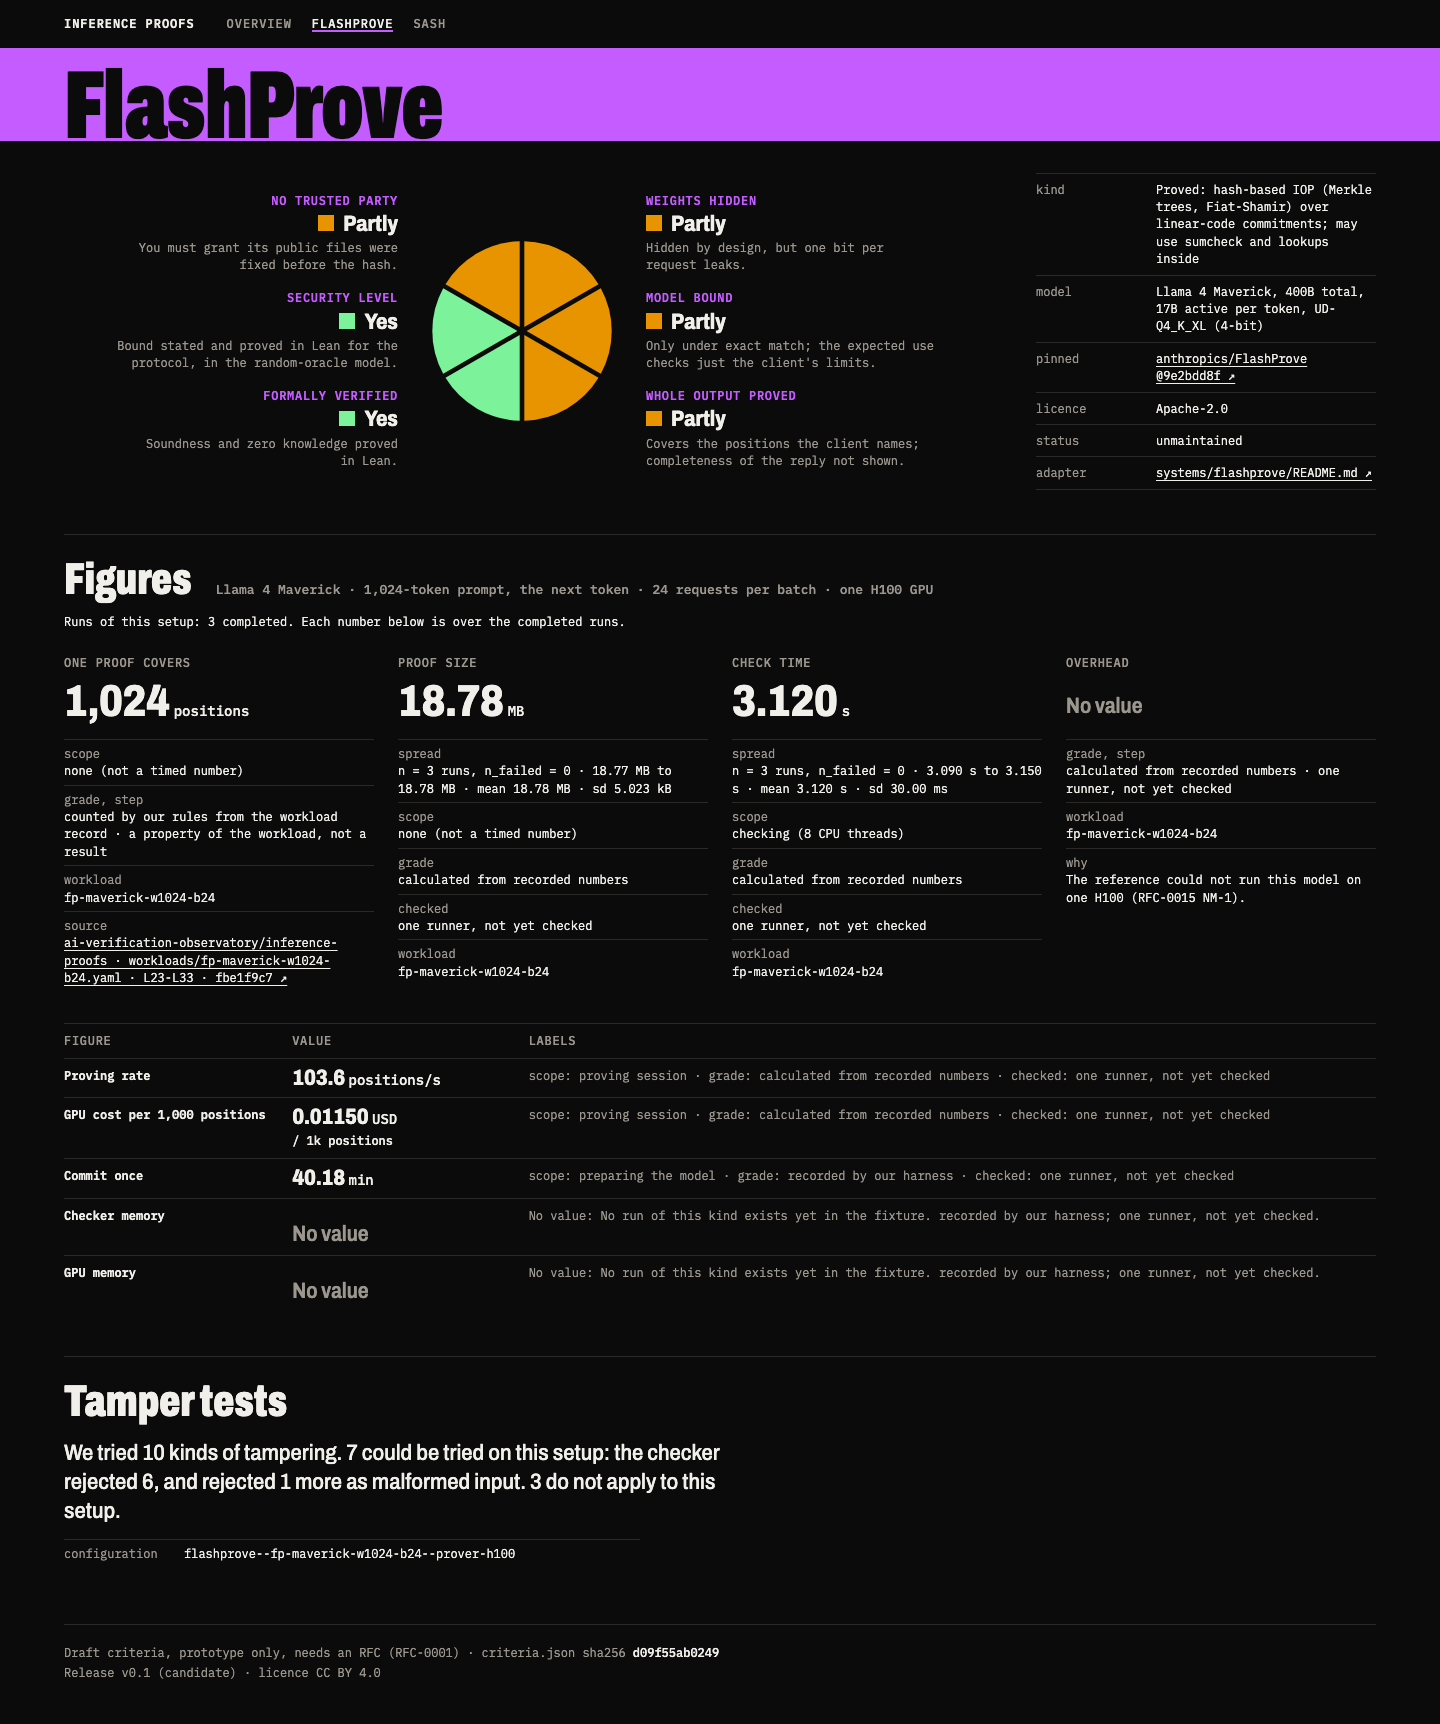
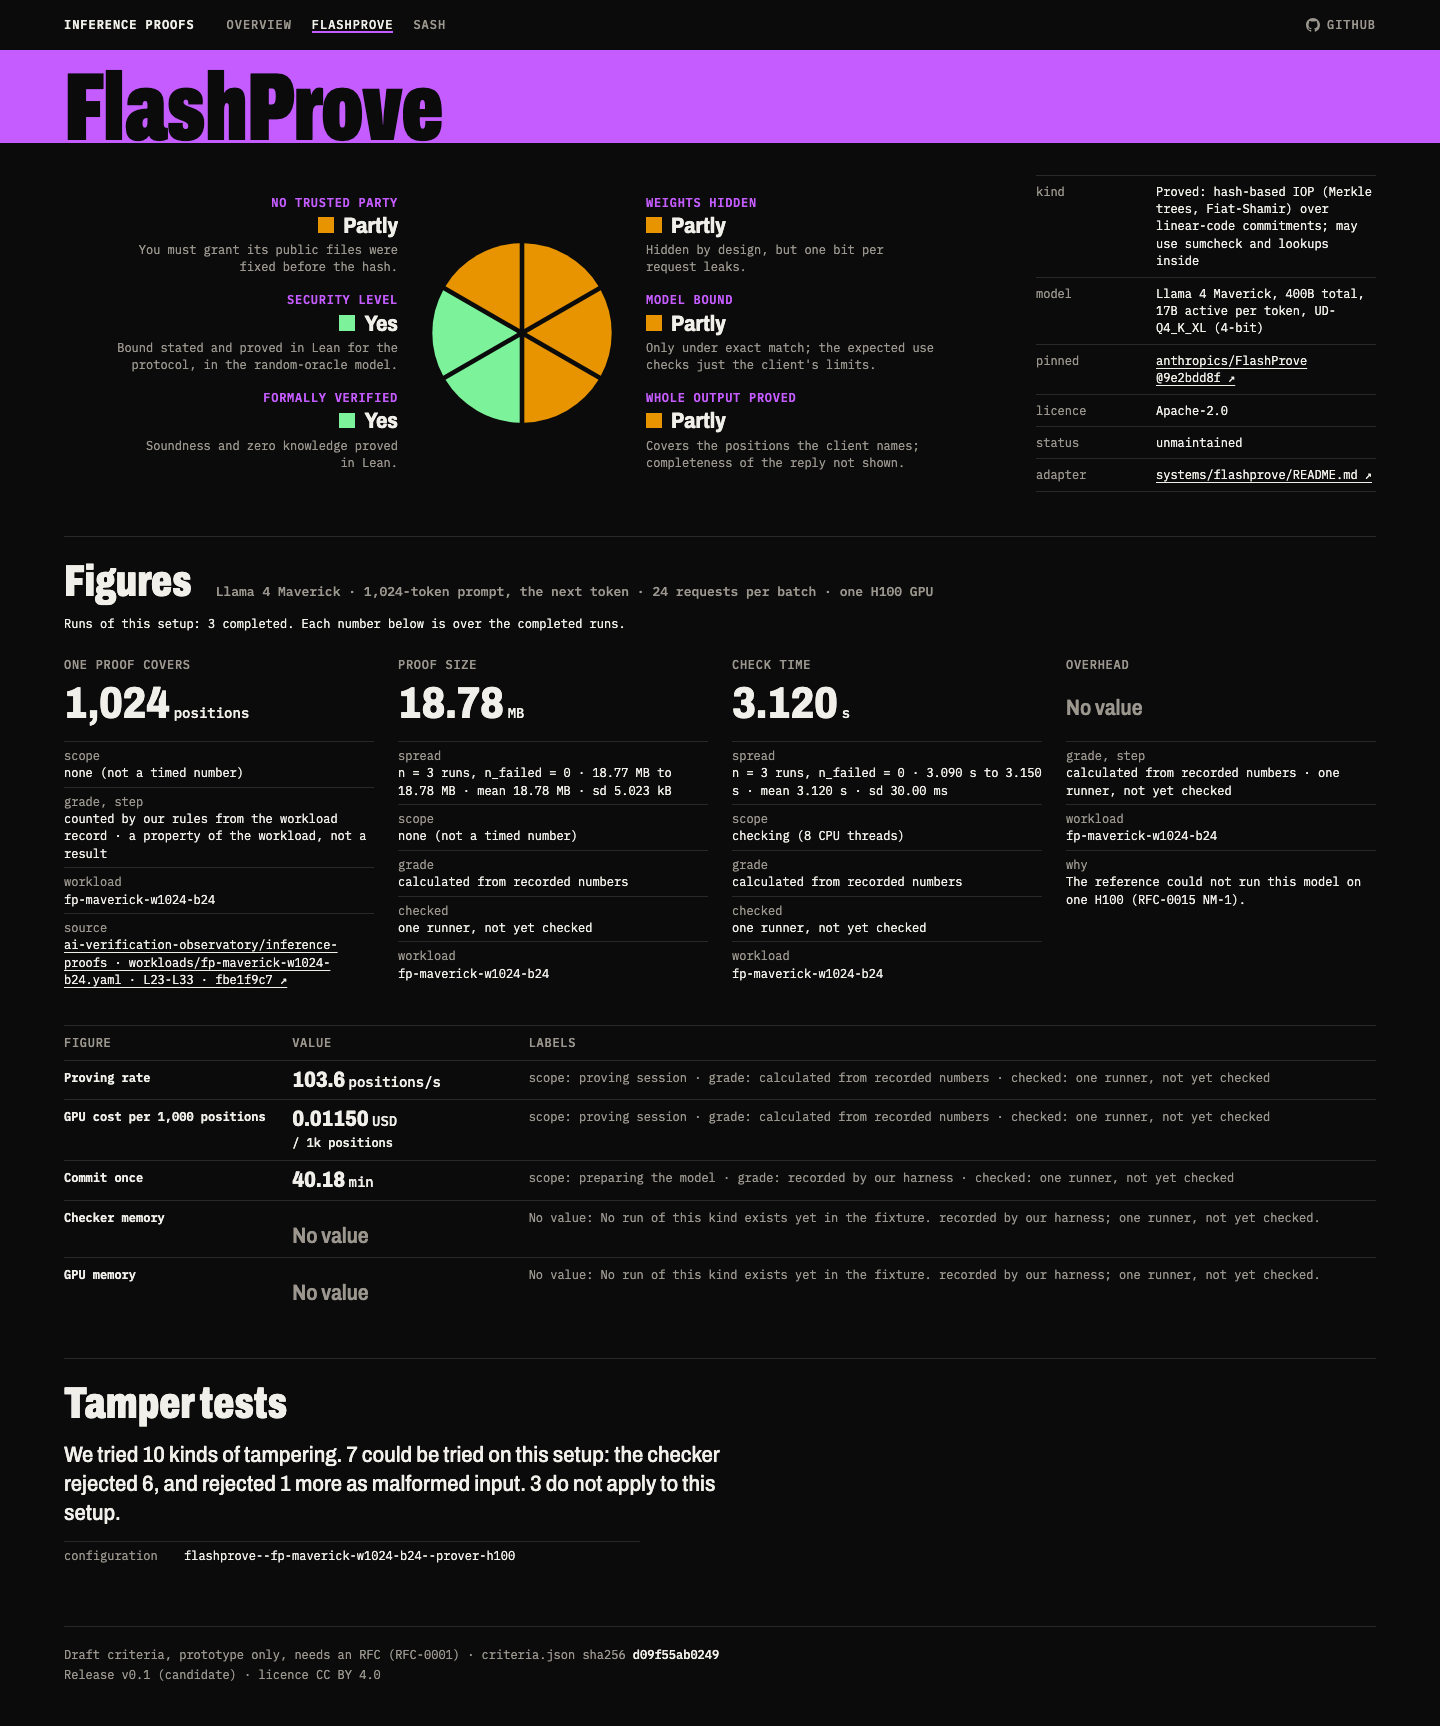
Link the project's repository from the site's header
A small GitHub link (the mark and the word, in the nav's muted mono,
paper on hover) sits at the right end of the top bar on every page. The
URL comes from the data: build.py takes the repository every workload
link points into and stops if they disagree. The top bar's items are now
centred on one line.

Claude-Session: https://claude.ai/code/session_011qCSbnjLPKFSQTeMa9vkid

diff --git a/web/flashprove.html b/web/flashprove.html
@@ -1,5 +1,5 @@
 <!doctype html><html lang="en"><head><meta charset="utf-8"><meta name="viewport" content="width=device-width, initial-scale=1"><script>try{if(!matchMedia("(prefers-reduced-motion: reduce)").matches)document.documentElement.classList.add("anim")}catch(_){}</script><title>FlashProve</title><meta name="description" content="FlashProve: six properties of one proof (draft criteria) and the benchmark&#x27;s own figures with their labels."><meta name="color-scheme" content="dark"><link rel="canonical" href="https://www.inferenceproofs.ai/flashprove"><meta property="og:type" content="website"><meta property="og:site_name" content="Inference proofs"><meta property="og:title" content="FlashProve · Inference proofs"><meta property="og:description" content="FlashProve: six properties of one proof (draft criteria) and the benchmark&#x27;s own figures with their labels."><meta property="og:url" content="https://www.inferenceproofs.ai/flashprove"><meta property="og:image" content="https://www.inferenceproofs.ai/og/flashprove.png?v=b99643af8f54"><meta property="og:image:type" content="image/png"><meta property="og:image:width" content="2400"><meta property="og:image:height" content="1260"><meta property="og:image:alt" content="FlashProve on Llama 4 Maverick @9e2bdd8f. Weights hidden: Partly; Model bound: Partly; Whole output proved: Partly; Formally verified: Yes; Security level: Yes; No trusted party: Partly. Draft criteria, needs an RFC."><meta name="twitter:card" content="summary_large_image"><meta name="twitter:title" content="FlashProve · Inference proofs"><meta name="twitter:description" content="FlashProve: six properties of one proof (draft criteria) and the benchmark&#x27;s own figures with their labels."><meta name="twitter:image" content="https://www.inferenceproofs.ai/og/flashprove.png?v=b99643af8f54"><meta name="twitter:image:alt" content="FlashProve on Llama 4 Maverick @9e2bdd8f. Weights hidden: Partly; Model bound: Partly; Whole output proved: Partly; Formally verified: Yes; Security level: Yes; No trusted party: Partly. Draft criteria, needs an RFC."><link rel="icon" href="/og/icon.svg" type="image/svg+xml"><link rel="apple-touch-icon" href="/og/icon.png?v=aab7f9d5d393"><link rel="preconnect" href="https://fonts.googleapis.com"><link rel="preconnect" href="https://fonts.gstatic.com" crossorigin><link href="https://fonts.googleapis.com/css2?family=Archivo:wdth,wght@62..125,400..900&family=IBM+Plex+Mono:wght@400;500;600&display=block" rel="stylesheet"><link rel="stylesheet" href="words.css"></head><body class="system">
-<header class="top"><p class="brand"><a href="index.html">Inference proofs</a></p><nav aria-label="Site"><a href="index.html">Overview</a><a href="flashprove.html" aria-current=page>FlashProve</a><a href="sash.html">SASH</a></nav></header>
+<header class="top"><p class="brand"><a href="index.html">Inference proofs</a></p><nav aria-label="Site"><a href="index.html">Overview</a><a href="flashprove.html" aria-current=page>FlashProve</a><a href="sash.html">SASH</a></nav><a class="repo" href="https://github.com/ai-verification-observatory/inference-proofs"><svg class="gh" viewBox="0 0 16 16" width="14" height="14" aria-hidden="true" focusable="false"><path fill="currentColor" d="M8 0c4.42 0 8 3.58 8 8a8.013 8.013 0 0 1-5.45 7.59c-.4.08-.55-.17-.55-.38 0-.27.01-1.13.01-2.2 0-.75-.25-1.23-.54-1.48 1.78-.2 3.65-.88 3.65-3.95 0-.88-.31-1.59-.82-2.15.08-.2.36-1.02-.08-2.12 0 0-.67-.22-2.2.82-.64-.18-1.32-.27-2-.27-.68 0-1.36.09-2 .27-1.53-1.03-2.2-.82-2.2-.82-.44 1.1-.16 1.92-.08 2.12-.51.56-.82 1.28-.82 2.15 0 3.06 1.86 3.75 3.64 3.95-.23.2-.44.55-.51 1.07-.46.21-1.61.55-2.33-.66-.15-.24-.6-.83-1.23-.82-.67.01-.27.38.01.53.34.19.73.9.82 1.13.16.45.68 1.31 2.69.94 0 .67.01 1.3.01 1.49 0 .21-.15.45-.55.38A7.995 7.995 0 0 1 0 8c0-4.42 3.58-8 8-8Z"/></svg>GitHub</a></header>
 <main id="main" class="sys">
   <section class="mast mast-sys" aria-labelledby="h-name">
     <div class="mast-in"><h1 id="h-name" class="sysname"><span class="lt">FlashProve</span></h1></div>

diff --git a/web/sash.html b/web/sash.html
@@ -1,5 +1,5 @@
 <!doctype html><html lang="en"><head><meta charset="utf-8"><meta name="viewport" content="width=device-width, initial-scale=1"><script>try{if(!matchMedia("(prefers-reduced-motion: reduce)").matches)document.documentElement.classList.add("anim")}catch(_){}</script><title>SASH</title><meta name="description" content="SASH: six properties of one proof (draft criteria) and the benchmark&#x27;s own figures with their labels."><meta name="color-scheme" content="dark"><link rel="canonical" href="https://www.inferenceproofs.ai/sash"><meta property="og:type" content="website"><meta property="og:site_name" content="Inference proofs"><meta property="og:title" content="SASH · Inference proofs"><meta property="og:description" content="SASH: six properties of one proof (draft criteria) and the benchmark&#x27;s own figures with their labels."><meta property="og:url" content="https://www.inferenceproofs.ai/sash"><meta property="og:image" content="https://www.inferenceproofs.ai/og/sash.png?v=e05edd6f11d3"><meta property="og:image:type" content="image/png"><meta property="og:image:width" content="2400"><meta property="og:image:height" content="1260"><meta property="og:image:alt" content="SASH on Llama 3.1 8B @eb95bfa8. Weights hidden: Not stated; Model bound: Yes; Whole output proved: Yes; Formally verified: Not stated; Security level: Partly; No trusted party: Not stated. Draft criteria, needs an RFC."><meta name="twitter:card" content="summary_large_image"><meta name="twitter:title" content="SASH · Inference proofs"><meta name="twitter:description" content="SASH: six properties of one proof (draft criteria) and the benchmark&#x27;s own figures with their labels."><meta name="twitter:image" content="https://www.inferenceproofs.ai/og/sash.png?v=e05edd6f11d3"><meta name="twitter:image:alt" content="SASH on Llama 3.1 8B @eb95bfa8. Weights hidden: Not stated; Model bound: Yes; Whole output proved: Yes; Formally verified: Not stated; Security level: Partly; No trusted party: Not stated. Draft criteria, needs an RFC."><link rel="icon" href="/og/icon.svg" type="image/svg+xml"><link rel="apple-touch-icon" href="/og/icon.png?v=aab7f9d5d393"><link rel="preconnect" href="https://fonts.googleapis.com"><link rel="preconnect" href="https://fonts.gstatic.com" crossorigin><link href="https://fonts.googleapis.com/css2?family=Archivo:wdth,wght@62..125,400..900&family=IBM+Plex+Mono:wght@400;500;600&display=block" rel="stylesheet"><link rel="stylesheet" href="words.css"></head><body class="system">
-<header class="top"><p class="brand"><a href="index.html">Inference proofs</a></p><nav aria-label="Site"><a href="index.html">Overview</a><a href="flashprove.html">FlashProve</a><a href="sash.html" aria-current=page>SASH</a></nav></header>
+<header class="top"><p class="brand"><a href="index.html">Inference proofs</a></p><nav aria-label="Site"><a href="index.html">Overview</a><a href="flashprove.html">FlashProve</a><a href="sash.html" aria-current=page>SASH</a></nav><a class="repo" href="https://github.com/ai-verification-observatory/inference-proofs"><svg class="gh" viewBox="0 0 16 16" width="14" height="14" aria-hidden="true" focusable="false"><path fill="currentColor" d="M8 0c4.42 0 8 3.58 8 8a8.013 8.013 0 0 1-5.45 7.59c-.4.08-.55-.17-.55-.38 0-.27.01-1.13.01-2.2 0-.75-.25-1.23-.54-1.48 1.78-.2 3.65-.88 3.65-3.95 0-.88-.31-1.59-.82-2.15.08-.2.36-1.02-.08-2.12 0 0-.67-.22-2.2.82-.64-.18-1.32-.27-2-.27-.68 0-1.36.09-2 .27-1.53-1.03-2.2-.82-2.2-.82-.44 1.1-.16 1.92-.08 2.12-.51.56-.82 1.28-.82 2.15 0 3.06 1.86 3.75 3.64 3.95-.23.2-.44.55-.51 1.07-.46.21-1.61.55-2.33-.66-.15-.24-.6-.83-1.23-.82-.67.01-.27.38.01.53.34.19.73.9.82 1.13.16.45.68 1.31 2.69.94 0 .67.01 1.3.01 1.49 0 .21-.15.45-.55.38A7.995 7.995 0 0 1 0 8c0-4.42 3.58-8 8-8Z"/></svg>GitHub</a></header>
 <main id="main" class="sys">
   <section class="mast mast-sys" aria-labelledby="h-name">
     <div class="mast-in"><h1 id="h-name" class="sysname"><span class="lt">SASH</span></h1></div>

diff --git a/web/reference.html b/web/reference.html
@@ -1,5 +1,5 @@
 <!doctype html><html lang="en"><head><meta charset="utf-8"><meta name="viewport" content="width=device-width, initial-scale=1"><script>try{if(!matchMedia("(prefers-reduced-motion: reduce)").matches)document.documentElement.classList.add("anim")}catch(_){}</script><title>References</title><meta name="description" content="The references: plain serving and a rerun by a weights holder, their six properties and their figures."><meta name="color-scheme" content="dark"><link rel="canonical" href="https://www.inferenceproofs.ai/reference"><meta property="og:type" content="website"><meta property="og:site_name" content="Inference proofs"><meta property="og:title" content="References · Inference proofs"><meta property="og:description" content="The references: plain serving and a rerun by a weights holder, their six properties and their figures."><meta property="og:url" content="https://www.inferenceproofs.ai/reference"><meta property="og:image" content="https://www.inferenceproofs.ai/og/home.png?v=ee1bbadd9e33"><meta property="og:image:type" content="image/png"><meta property="og:image:width" content="2400"><meta property="og:image:height" content="1260"><meta property="og:image:alt" content="Inference proofs: Weights hidden, Model bound, Whole output proved, Formally verified, Security level, No trusted party."><meta name="twitter:card" content="summary_large_image"><meta name="twitter:title" content="References · Inference proofs"><meta name="twitter:description" content="The references: plain serving and a rerun by a weights holder, their six properties and their figures."><meta name="twitter:image" content="https://www.inferenceproofs.ai/og/home.png?v=ee1bbadd9e33"><meta name="twitter:image:alt" content="Inference proofs: Weights hidden, Model bound, Whole output proved, Formally verified, Security level, No trusted party."><link rel="icon" href="/og/icon.svg" type="image/svg+xml"><link rel="apple-touch-icon" href="/og/icon.png?v=aab7f9d5d393"><link rel="preconnect" href="https://fonts.googleapis.com"><link rel="preconnect" href="https://fonts.gstatic.com" crossorigin><link href="https://fonts.googleapis.com/css2?family=Archivo:wdth,wght@62..125,400..900&family=IBM+Plex+Mono:wght@400;500;600&display=block" rel="stylesheet"><link rel="stylesheet" href="words.css"></head><body class="system reference">
-<header class="top"><p class="brand"><a href="index.html">Inference proofs</a></p><nav aria-label="Site"><a href="index.html">Overview</a><a href="flashprove.html">FlashProve</a><a href="sash.html">SASH</a></nav></header>
+<header class="top"><p class="brand"><a href="index.html">Inference proofs</a></p><nav aria-label="Site"><a href="index.html">Overview</a><a href="flashprove.html">FlashProve</a><a href="sash.html">SASH</a></nav><a class="repo" href="https://github.com/ai-verification-observatory/inference-proofs"><svg class="gh" viewBox="0 0 16 16" width="14" height="14" aria-hidden="true" focusable="false"><path fill="currentColor" d="M8 0c4.42 0 8 3.58 8 8a8.013 8.013 0 0 1-5.45 7.59c-.4.08-.55-.17-.55-.38 0-.27.01-1.13.01-2.2 0-.75-.25-1.23-.54-1.48 1.78-.2 3.65-.88 3.65-3.95 0-.88-.31-1.59-.82-2.15.08-.2.36-1.02-.08-2.12 0 0-.67-.22-2.2.82-.64-.18-1.32-.27-2-.27-.68 0-1.36.09-2 .27-1.53-1.03-2.2-.82-2.2-.82-.44 1.1-.16 1.92-.08 2.12-.51.56-.82 1.28-.82 2.15 0 3.06 1.86 3.75 3.64 3.95-.23.2-.44.55-.51 1.07-.46.21-1.61.55-2.33-.66-.15-.24-.6-.83-1.23-.82-.67.01-.27.38.01.53.34.19.73.9.82 1.13.16.45.68 1.31 2.69.94 0 .67.01 1.3.01 1.49 0 .21-.15.45-.55.38A7.995 7.995 0 0 1 0 8c0-4.42 3.58-8 8-8Z"/></svg>GitHub</a></header>
 <main id="main" class="sys refpage">
   <section class="mast mast-sys" aria-labelledby="h-name">
     <div class="mast-in"><h1 id="h-name" class="sysname refname"><span class="lt">References</span></h1></div>

diff --git a/web/index.html b/web/index.html
@@ -1,5 +1,5 @@
 <!doctype html><html lang="en"><head><meta charset="utf-8"><meta name="viewport" content="width=device-width, initial-scale=1"><script>try{if(!matchMedia("(prefers-reduced-motion: reduce)").matches)document.documentElement.classList.add("anim")}catch(_){}</script><title>Inference proofs</title><meta name="description" content="Six properties of one proof per system (draft criteria), and the benchmark&#x27;s own figures per model, sortable by column."><meta name="color-scheme" content="dark"><link rel="canonical" href="https://www.inferenceproofs.ai/"><meta property="og:type" content="website"><meta property="og:site_name" content="Inference proofs"><meta property="og:title" content="Inference proofs"><meta property="og:description" content="Six properties of one proof per system (draft criteria), and the benchmark&#x27;s own figures per model, sortable by column."><meta property="og:url" content="https://www.inferenceproofs.ai/"><meta property="og:image" content="https://www.inferenceproofs.ai/og/home.png?v=ee1bbadd9e33"><meta property="og:image:type" content="image/png"><meta property="og:image:width" content="2400"><meta property="og:image:height" content="1260"><meta property="og:image:alt" content="Inference proofs: Weights hidden, Model bound, Whole output proved, Formally verified, Security level, No trusted party."><meta name="twitter:card" content="summary_large_image"><meta name="twitter:title" content="Inference proofs"><meta name="twitter:description" content="Six properties of one proof per system (draft criteria), and the benchmark&#x27;s own figures per model, sortable by column."><meta name="twitter:image" content="https://www.inferenceproofs.ai/og/home.png?v=ee1bbadd9e33"><meta name="twitter:image:alt" content="Inference proofs: Weights hidden, Model bound, Whole output proved, Formally verified, Security level, No trusted party."><link rel="icon" href="/og/icon.svg" type="image/svg+xml"><link rel="apple-touch-icon" href="/og/icon.png?v=aab7f9d5d393"><link rel="preconnect" href="https://fonts.googleapis.com"><link rel="preconnect" href="https://fonts.gstatic.com" crossorigin><link href="https://fonts.googleapis.com/css2?family=Archivo:wdth,wght@62..125,400..900&family=IBM+Plex+Mono:wght@400;500;600&display=block" rel="stylesheet"><link rel="stylesheet" href="words.css"></head><body class="home">
-<header class="top"><p class="brand"><a href="index.html">Inference proofs</a></p><nav aria-label="Site"><a href="index.html" aria-current=page>Overview</a><a href="flashprove.html">FlashProve</a><a href="sash.html">SASH</a></nav></header>
+<header class="top"><p class="brand"><a href="index.html">Inference proofs</a></p><nav aria-label="Site"><a href="index.html" aria-current=page>Overview</a><a href="flashprove.html">FlashProve</a><a href="sash.html">SASH</a></nav><a class="repo" href="https://github.com/ai-verification-observatory/inference-proofs"><svg class="gh" viewBox="0 0 16 16" width="14" height="14" aria-hidden="true" focusable="false"><path fill="currentColor" d="M8 0c4.42 0 8 3.58 8 8a8.013 8.013 0 0 1-5.45 7.59c-.4.08-.55-.17-.55-.38 0-.27.01-1.13.01-2.2 0-.75-.25-1.23-.54-1.48 1.78-.2 3.65-.88 3.65-3.95 0-.88-.31-1.59-.82-2.15.08-.2.36-1.02-.08-2.12 0 0-.67-.22-2.2.82-.64-.18-1.32-.27-2-.27-.68 0-1.36.09-2 .27-1.53-1.03-2.2-.82-2.2-.82-.44 1.1-.16 1.92-.08 2.12-.51.56-.82 1.28-.82 2.15 0 3.06 1.86 3.75 3.64 3.95-.23.2-.44.55-.51 1.07-.46.21-1.61.55-2.33-.66-.15-.24-.6-.83-1.23-.82-.67.01-.27.38.01.53.34.19.73.9.82 1.13.16.45.68 1.31 2.69.94 0 .67.01 1.3.01 1.49 0 .21-.15.45-.55.38A7.995 7.995 0 0 1 0 8c0-4.42 3.58-8 8-8Z"/></svg>GitHub</a></header>
 <main id="main">
 
 <section class="mast" aria-labelledby="h-mast">

diff --git a/web/words.css b/web/words.css
@@ -39,12 +39,15 @@ p { margin: 0; }
 .sw.unstated { box-shadow: inset 0 0 0 1px var(--rule); }
 
 /* ---------------------------------------------------------------- top bar */
-.top { display: flex; align-items: baseline; gap: 32px; padding: 18px var(--gut); font: 500 12px/1 var(--mono); letter-spacing: .08em; text-transform: uppercase; }
+.top { display: flex; align-items: center; gap: 32px; padding: 18px var(--gut); font: 500 12px/1 var(--mono); letter-spacing: .08em; text-transform: uppercase; }
 .brand a { text-decoration: none; font-weight: 600; }
 .top nav { display: flex; gap: 20px; }
 .top nav a { text-decoration: none; color: var(--muted); }
 .top nav a[aria-current] { color: var(--paper); box-shadow: 0 2px 0 var(--violet); }
 .top nav a:hover { color: var(--paper); }
+.top .repo { margin-left: auto; display: inline-flex; align-items: center; gap: 7px; text-decoration: none; color: var(--muted); transition: color .15s; }
+.top .repo:hover { color: var(--paper); }
+.top .repo .gh { display: block; flex: none; }
 
 /* ---------------------------------------------------------------- masthead: a plain legend, black on violet
    Six small pies, one per property: its own wedge in paper, the others in line, its name and question beside it.

diff --git a/web/build.py b/web/build.py
@@ -496,6 +496,27 @@ PAGE = {sid: f"{sid}.html" for sid in G["orders"]["benchmarked"]}  # one page pe
 REF_PAGE = "reference.html"  # one page for the reference systems
 
 
+# The project's repository, as the data's own links name it (every workload and source link
+# points into it); the header links to it.
+REPOS = {
+    "/".join(w["href"].split("github.com/", 1)[1].split("/")[:2])
+    for w in site["workloads"].values()
+}
+assert len(REPOS) == 1, REPOS
+REPO_URL = f"https://github.com/{REPOS.pop()}"
+# GitHub's mark (Octicons mark-github, 16 px, MIT licence)
+GITHUB_MARK = (
+    '<svg class="gh" viewBox="0 0 16 16" width="14" height="14" aria-hidden="true" focusable="false"><path fill="currentColor" d="'
+    "M8 0c4.42 0 8 3.58 8 8a8.013 8.013 0 0 1-5.45 7.59c-.4.08-.55-.17-.55-.38 0-.27.01-1.13.01-2.2 "
+    "0-.75-.25-1.23-.54-1.48 1.78-.2 3.65-.88 3.65-3.95 0-.88-.31-1.59-.82-2.15.08-.2.36-1.02-.08-2.12 "
+    "0 0-.67-.22-2.2.82-.64-.18-1.32-.27-2-.27-.68 0-1.36.09-2 .27-1.53-1.03-2.2-.82-2.2-.82-.44 1.1-.16 "
+    "1.92-.08 2.12-.51.56-.82 1.28-.82 2.15 0 3.06 1.86 3.75 3.64 3.95-.23.2-.44.55-.51 1.07-.46.21-1.61.55-2.33-.66"
+    "-.15-.24-.6-.83-1.23-.82-.67.01-.27.38.01.53.34.19.73.9.82 1.13.16.45.68 1.31 2.69.94 0 .67.01 1.3.01 1.49 "
+    "0 .21-.15.45-.55.38A7.995 7.995 0 0 1 0 8c0-4.42 3.58-8 8-8Z"
+    '"/></svg>'
+)
+
+
 def header(here):
     def a(href, label, key):
         return f'<a href="{href}"{" aria-current=page" if here == key else ""}>{label}</a>'
@@ -507,6 +528,7 @@ def header(here):
     return (
         f'<header class="top"><p class="brand"><a href="index.html">Inference proofs</a></p>'
         f'<nav aria-label="Site">{nav}</nav>'
+        f'<a class="repo" href="{e(REPO_URL)}">{GITHUB_MARK}GitHub</a>'
         "</header>"
     )
 
